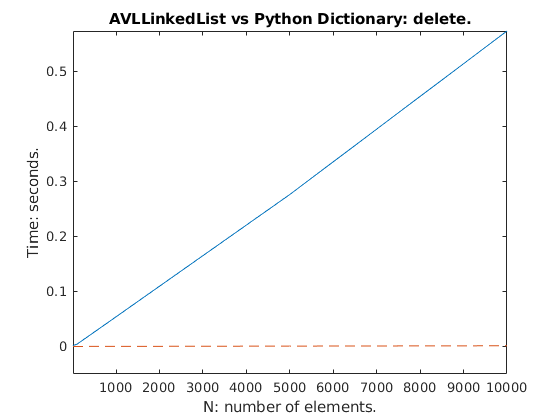
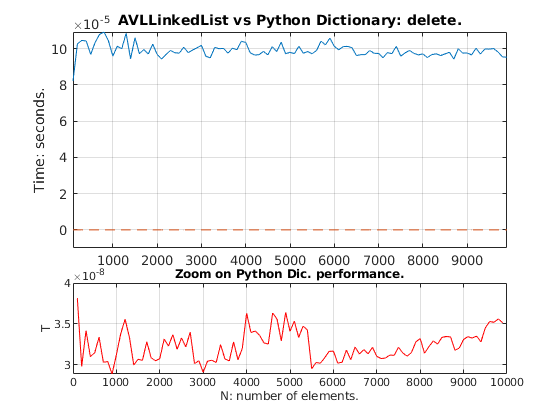
MATLAB analysis of our algorithm.

diff --git a/html/graph_data.html b/html/graph_data.html
@@ -6,7 +6,7 @@
    <!--
 This HTML was auto-generated from MATLAB code.
 To make changes, update the MATLAB code and republish this document.
-      --><title>graph_data</title><meta name="generator" content="MATLAB 9.5"><link rel="schema.DC" href="http://purl.org/dc/elements/1.1/"><meta name="DC.date" content="2018-12-11"><meta name="DC.source" content="graph_data.m"><style type="text/css">
+      --><title>graph_data</title><meta name="generator" content="MATLAB 9.5"><link rel="schema.DC" href="http://purl.org/dc/elements/1.1/"><meta name="DC.date" content="2018-12-13"><meta name="DC.source" content="graph_data.m"><style type="text/css">
 html,body,div,span,applet,object,iframe,h1,h2,h3,h4,h5,h6,p,blockquote,pre,a,abbr,acronym,address,big,cite,code,del,dfn,em,font,img,ins,kbd,q,s,samp,small,strike,strong,sub,sup,tt,var,b,u,i,center,dl,dt,dd,ol,ul,li,fieldset,form,label,legend,table,caption,tbody,tfoot,thead,tr,th,td{margin:0;padding:0;border:0;outline:0;font-size:100%;vertical-align:baseline;background:transparent}body{line-height:1}ol,ul{list-style:none}blockquote,q{quotes:none}blockquote:before,blockquote:after,q:before,q:after{content:'';content:none}:focus{outine:0}ins{text-decoration:none}del{text-decoration:line-through}table{border-collapse:collapse;border-spacing:0}
 
 html { min-height:100%; margin-bottom:1px; }
@@ -73,11 +73,12 @@ Dic1Path = fullfile(<span class="string">'Performance'</span>,<span class="strin
 Dic2Path = fullfile(<span class="string">'Performance'</span>,<span class="string">'performanceDic2.txt'</span>);
 
 <span class="comment">%graph limits:</span>
-plotLimits1 = [-Inf Inf -0.05 Inf];
-plotLimits2 = [-Inf Inf -0.1 Inf];
+plotLimits1 = [-Inf Inf -0.00001 Inf];
+plotLimits2 = [-Inf Inf -0.00001 Inf];
 
 figure
 
+subplot(3,2,[1,4]);
 AVL1ID = fopen(AVL1Path);
 Dic1ID = fopen(Dic1Path);
 AVL1Scan = textscan(AVL1ID,<span class="string">'%u %f'</span>);
@@ -86,12 +87,22 @@ fclose(AVL1ID);
 fclose(Dic1ID);
 plot(AVL1Scan{1},AVL1Scan{2},Dic1Scan{1},Dic1Scan{2},<span class="string">'--'</span>)
 title(<span class="string">'AVLLinkedList vs Python Dictionary: delete.'</span>);
-xlabel(<span class="string">'N: number of elements.'</span>);
+<span class="comment">%xlabel('N: number of elements.');</span>
 ylabel(<span class="string">'Time: seconds.'</span>);
 axis(plotLimits1);
+grid <span class="string">on</span>;
+
+subplot(3,2,[5,6])
+plot(Dic1Scan{1},Dic1Scan{2},<span class="string">'r'</span>);
+xlabel(<span class="string">'N: number of elements.'</span>);
+ylabel(<span class="string">'T'</span>);
+grid <span class="string">on</span>;
+title(<span class="string">'Zoom on Python Dic. performance.'</span>);
+
 
 figure
 
+subplot(3,2,[1,4]);
 AVL2ID = fopen(AVL2Path);
 Dic2ID = fopen(Dic2Path);
 AVL2Scan = textscan(AVL2ID,<span class="string">'%u %f'</span>);
@@ -100,9 +111,17 @@ fclose(AVL2ID);
 fclose(Dic2ID);
 plot(AVL2Scan{1},AVL2Scan{2},Dic2Scan{1},Dic2Scan{2},<span class="string">'--'</span>)
 title(<span class="string">'AVLLinkedList vs Python Dictionary: find.'</span>);
-xlabel(<span class="string">'N: number of elements.'</span>);
+<span class="comment">%xlabel('N: number of elements.');</span>
 ylabel(<span class="string">'Time: seconds.'</span>);
 axis(plotLimits2);
+grid <span class="string">on</span>;
+
+subplot(3,2,[5,6]);
+plot(Dic2Scan{1},Dic2Scan{2},<span class="string">'r'</span>);
+xlabel(<span class="string">'N: number of elements.'</span>);
+ylabel(<span class="string">'T'</span>);
+grid <span class="string">on</span>;
+title(<span class="string">'Zoom on Python Dic. performance.'</span>)
 </pre><img vspace="5" hspace="5" src="graph_data_01.png" alt=""> <img vspace="5" hspace="5" src="graph_data_02.png" alt=""> <p class="footer"><br><a href="https://www.mathworks.com/products/matlab/">Published with MATLAB&reg; R2018b</a><br></p></div><!--
 ##### SOURCE BEGIN #####
 
@@ -113,11 +132,12 @@ Dic1Path = fullfile('Performance','performanceDic1.txt');
 Dic2Path = fullfile('Performance','performanceDic2.txt');
 
 %graph limits:
-plotLimits1 = [-Inf Inf -0.05 Inf];
-plotLimits2 = [-Inf Inf -0.1 Inf];
+plotLimits1 = [-Inf Inf -0.00001 Inf];
+plotLimits2 = [-Inf Inf -0.00001 Inf];
 
 figure
 
+subplot(3,2,[1,4]);
 AVL1ID = fopen(AVL1Path);
 Dic1ID = fopen(Dic1Path);
 AVL1Scan = textscan(AVL1ID,'%u %f');
@@ -126,12 +146,22 @@ fclose(AVL1ID);
 fclose(Dic1ID);
 plot(AVL1Scan{1},AVL1Scan{2},Dic1Scan{1},Dic1Scan{2},'REPLACE_WITH_DASH_DASH')
 title('AVLLinkedList vs Python Dictionary: delete.');
-xlabel('N: number of elements.');
+%xlabel('N: number of elements.');
 ylabel('Time: seconds.');
 axis(plotLimits1);
+grid on;
+
+subplot(3,2,[5,6])
+plot(Dic1Scan{1},Dic1Scan{2},'r');
+xlabel('N: number of elements.');
+ylabel('T');
+grid on;
+title('Zoom on Python Dic. performance.');
+
 
 figure
 
+subplot(3,2,[1,4]);
 AVL2ID = fopen(AVL2Path);
 Dic2ID = fopen(Dic2Path);
 AVL2Scan = textscan(AVL2ID,'%u %f');
@@ -140,9 +170,31 @@ fclose(AVL2ID);
 fclose(Dic2ID);
 plot(AVL2Scan{1},AVL2Scan{2},Dic2Scan{1},Dic2Scan{2},'REPLACE_WITH_DASH_DASH')
 title('AVLLinkedList vs Python Dictionary: find.');
-xlabel('N: number of elements.');
+%xlabel('N: number of elements.');
 ylabel('Time: seconds.');
 axis(plotLimits2);
+grid on;
+
+subplot(3,2,[5,6]);
+plot(Dic2Scan{1},Dic2Scan{2},'r');
+xlabel('N: number of elements.');
+ylabel('T');
+grid on;
+title('Zoom on Python Dic. performance.')
+
+
+
+
+
+
+
+
+
+
+
+
+
+
 
 
 ##### SOURCE END #####
